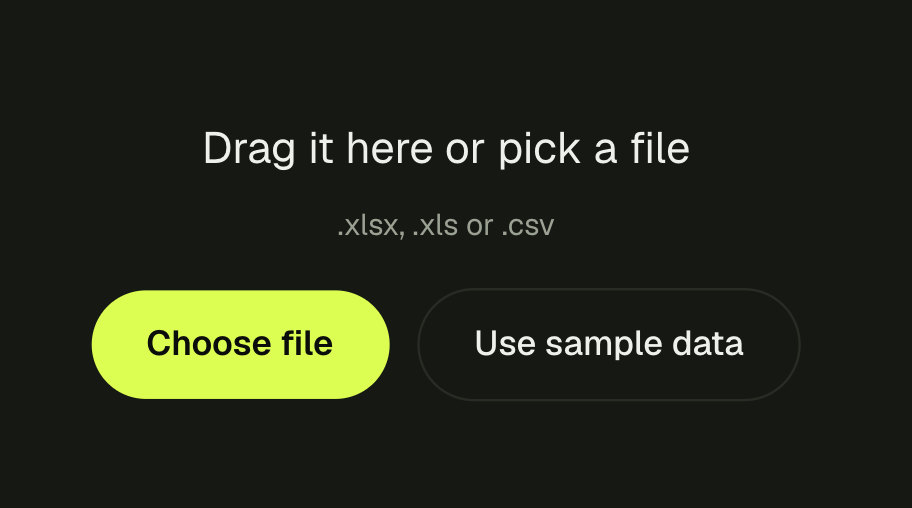
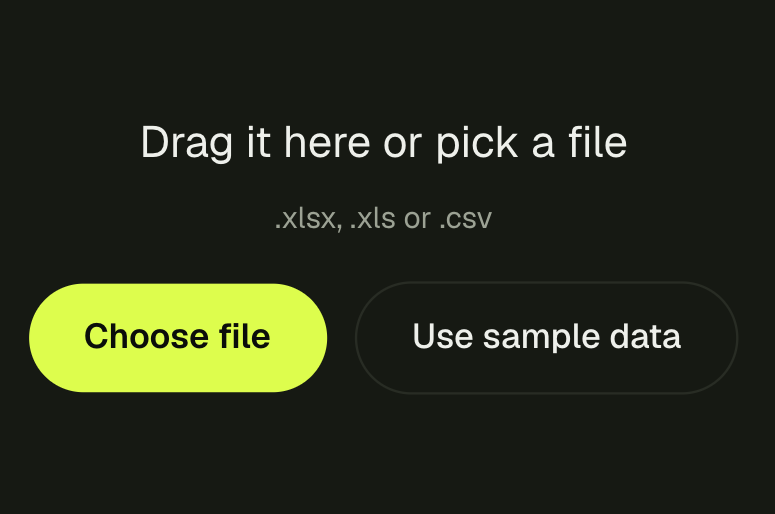
Landing: imagens 02 e 03 do Como funciona atualizadas

diff --git a/src/landing.js b/src/landing.js
@@ -11,7 +11,7 @@ const LP = {
     steps: [
       ['Responda 4 perguntas', 'Qual é a sua área, para quem é, que decisão você quer provocar e quanto tempo tem. Depois da planilha, o Datavix mostra o que encontrou e escolhe o gráfico.', 'opções de público na primeira pergunta do Datavix'],
       ['Suba a planilha', 'Excel ou CSV com dezenas de milhares de linhas. Reconhecemos colunas, datas, números em formato brasileiro e a qualidade dos dados.', 'área para arrastar ou escolher a planilha'],
-      ['Veja a animação', 'O gráfico entra com animação orquestrada. Insights só aparecem com cálculo que os sustente, e o “ver cálculo” mostra a conta.', 'árvore radial animada com os detalhes da linha selecionada'],
+      ['Veja a animação', 'O gráfico entra com animação orquestrada. Insights só aparecem com cálculo que os sustente, e o “ver cálculo” mostra a conta.', 'detalhe da árvore radial animada: períodos, ramos e cada registro como uma bolha'],
       ['Edite e exporte', 'Troque gráfico, paleta, fundo e fontes. Exporte HTML interativo que abre offline, PNG ou um ZIP com um PNG por etapa.', 'painel de exportação: apresentar, HTML, PNG e ZIP'],
     ],
     ch_k: 'Gráficos', ch_h: ['Um gráfico para cada', 'história'], ch_p: 'A sugestão segue o formato dos seus dados. Você escolhe entre a principal e as alternativas.',
@@ -59,7 +59,7 @@ const LP = {
     steps: [
       ['Answer 4 questions', 'Which area you work in, who it is for, which decision you want to trigger and how much time you have. After the spreadsheet, Datavix shows what it found and picks the chart.', 'audience options on the first Datavix question'],
       ['Upload the spreadsheet', 'Excel or CSV with tens of thousands of rows. We detect columns, dates, number formats and data quality.', 'area to drag or pick the spreadsheet'],
-      ['Watch it animate', 'The chart enters with orchestrated animation. Insights only appear when a calculation supports them, and “see calculation” shows the math.', 'animated radial tree with the details of the selected row'],
+      ['Watch it animate', 'The chart enters with orchestrated animation. Insights only appear when a calculation supports them, and “see calculation” shows the math.', 'detail of the animated radial tree: periods, branches and each record as a bubble'],
       ['Edit and export', 'Change chart, palette, background and fonts. Export interactive HTML that opens offline, a PNG, or a ZIP with one PNG per step.', 'export panel: present, HTML, PNG and ZIP'],
     ],
     ch_k: 'Charts', ch_h: ['A chart for every', 'story'], ch_p: 'The suggestion follows the shape of your data. You choose between the main one and the alternatives.',
